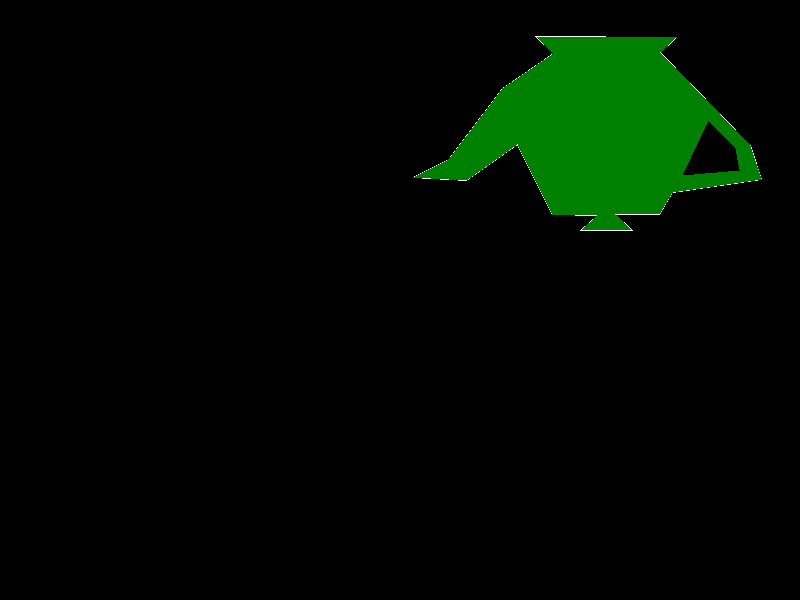
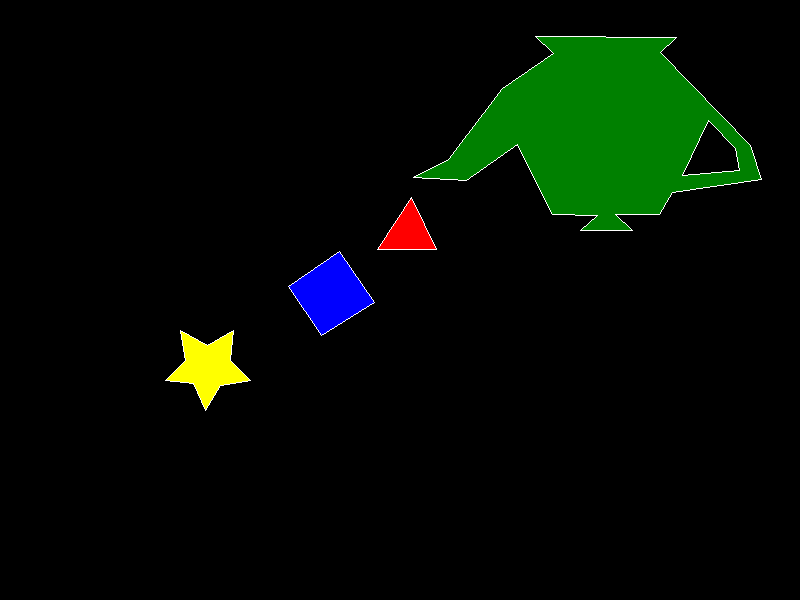
Todos los poligonos

Changed region(s): [[0.3438, 0.42, 0.4688, 0.57], [0.2188, 0.54, 0.3125, 0.69], [0.4688, 0.33, 0.5625, 0.42]]

diff --git a/src/main.rs b/src/main.rs
@@ -7,6 +7,7 @@ fn main() {
     let (width, height) = (800, 600);
     let (mut rl, thread) = raylib::init()
         .size(width, height)
+        .title("Todos los polígonos juntos")
         .build();
 
     let mut framebuffer = FrameBuffer::new(width, height);
@@ -47,10 +48,18 @@ fn main() {
         Vector2 { x: 735.0, y: 148.0 }, Vector2 { x: 739.0, y: 170.0 },
     ];
 
-    draw_polygon_edges(&mut framebuffer, &poly4, Color::WHITE);
-    draw_polygon_edges(&mut framebuffer, &poly5, Color::WHITE);
+    fill_polygon(&mut framebuffer, &poly1, Color::YELLOW);
+    draw_polygon_edges(&mut framebuffer, &poly1, Color::WHITE);
+
+    fill_polygon(&mut framebuffer, &poly2, Color::BLUE);
+    draw_polygon_edges(&mut framebuffer, &poly2, Color::WHITE);
+
+    fill_polygon(&mut framebuffer, &poly3, Color::RED);
+    draw_polygon_edges(&mut framebuffer, &poly3, Color::WHITE);
 
     fill_polygon_with_hole(&mut framebuffer, &poly4, &poly5, Color::GREEN, Color::BLACK);
+    draw_polygon_edges(&mut framebuffer, &poly4, Color::WHITE);
+    draw_polygon_edges(&mut framebuffer, &poly5, Color::WHITE);
 
     save_framebuffer_as_png(&framebuffer, "out.png");
 
@@ -137,6 +146,21 @@ fn point_in_polygon(point: Vector2, polygon: &[Vector2]) -> bool {
         j = i;
     }
     inside
+}
+
+fn fill_polygon(framebuffer: &mut FrameBuffer, poly: &[Vector2], color: Color) {
+    let min_y = poly.iter().map(|v| v.y as i32).min().unwrap_or(0);
+    let max_y = poly.iter().map(|v| v.y as i32).max().unwrap_or(0);
+    let width = framebuffer.width();
+
+    for y in min_y..=max_y {
+        for x in 0..width {
+            let point = Vector2 { x: x as f32, y: y as f32 };
+            if point_in_polygon(point, poly) {
+                framebuffer.set_pixel(x, y, color);
+            }
+        }
+    }
 }
 
 fn fill_polygon_with_hole(
